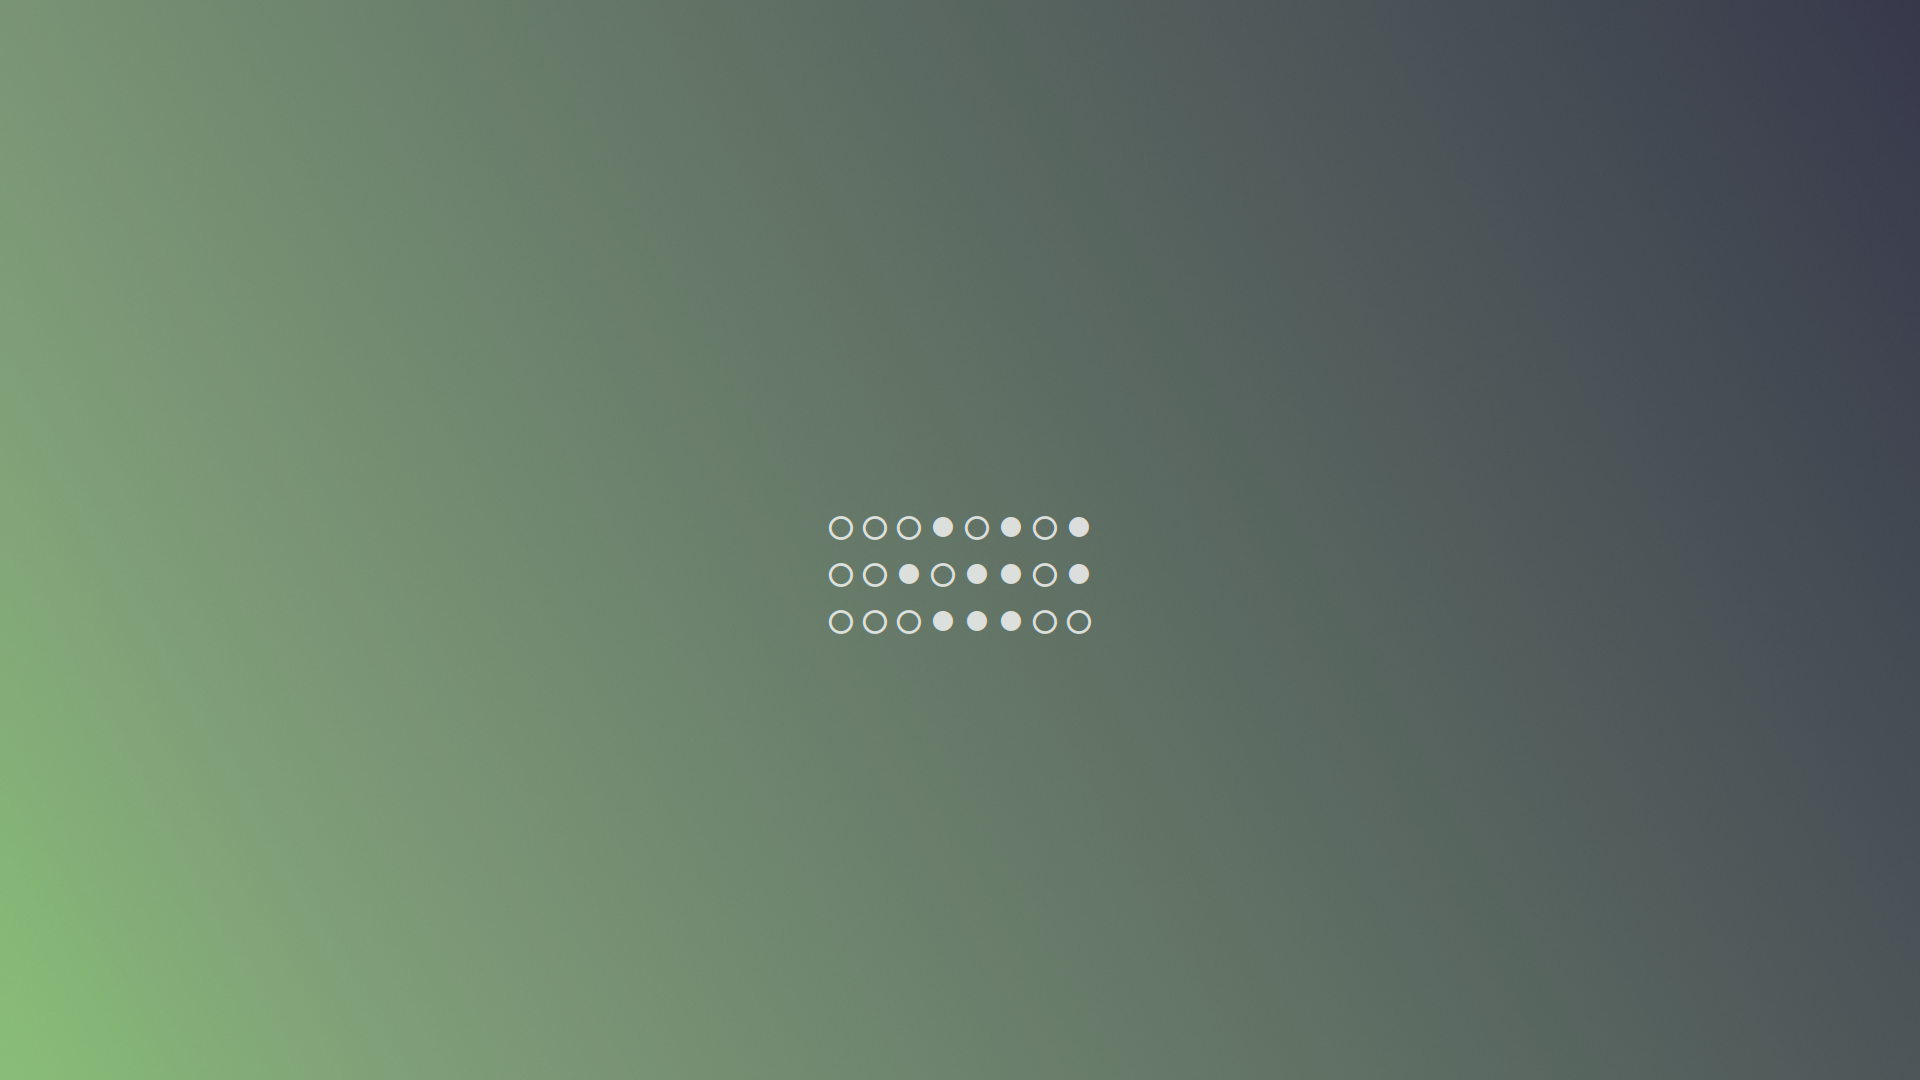
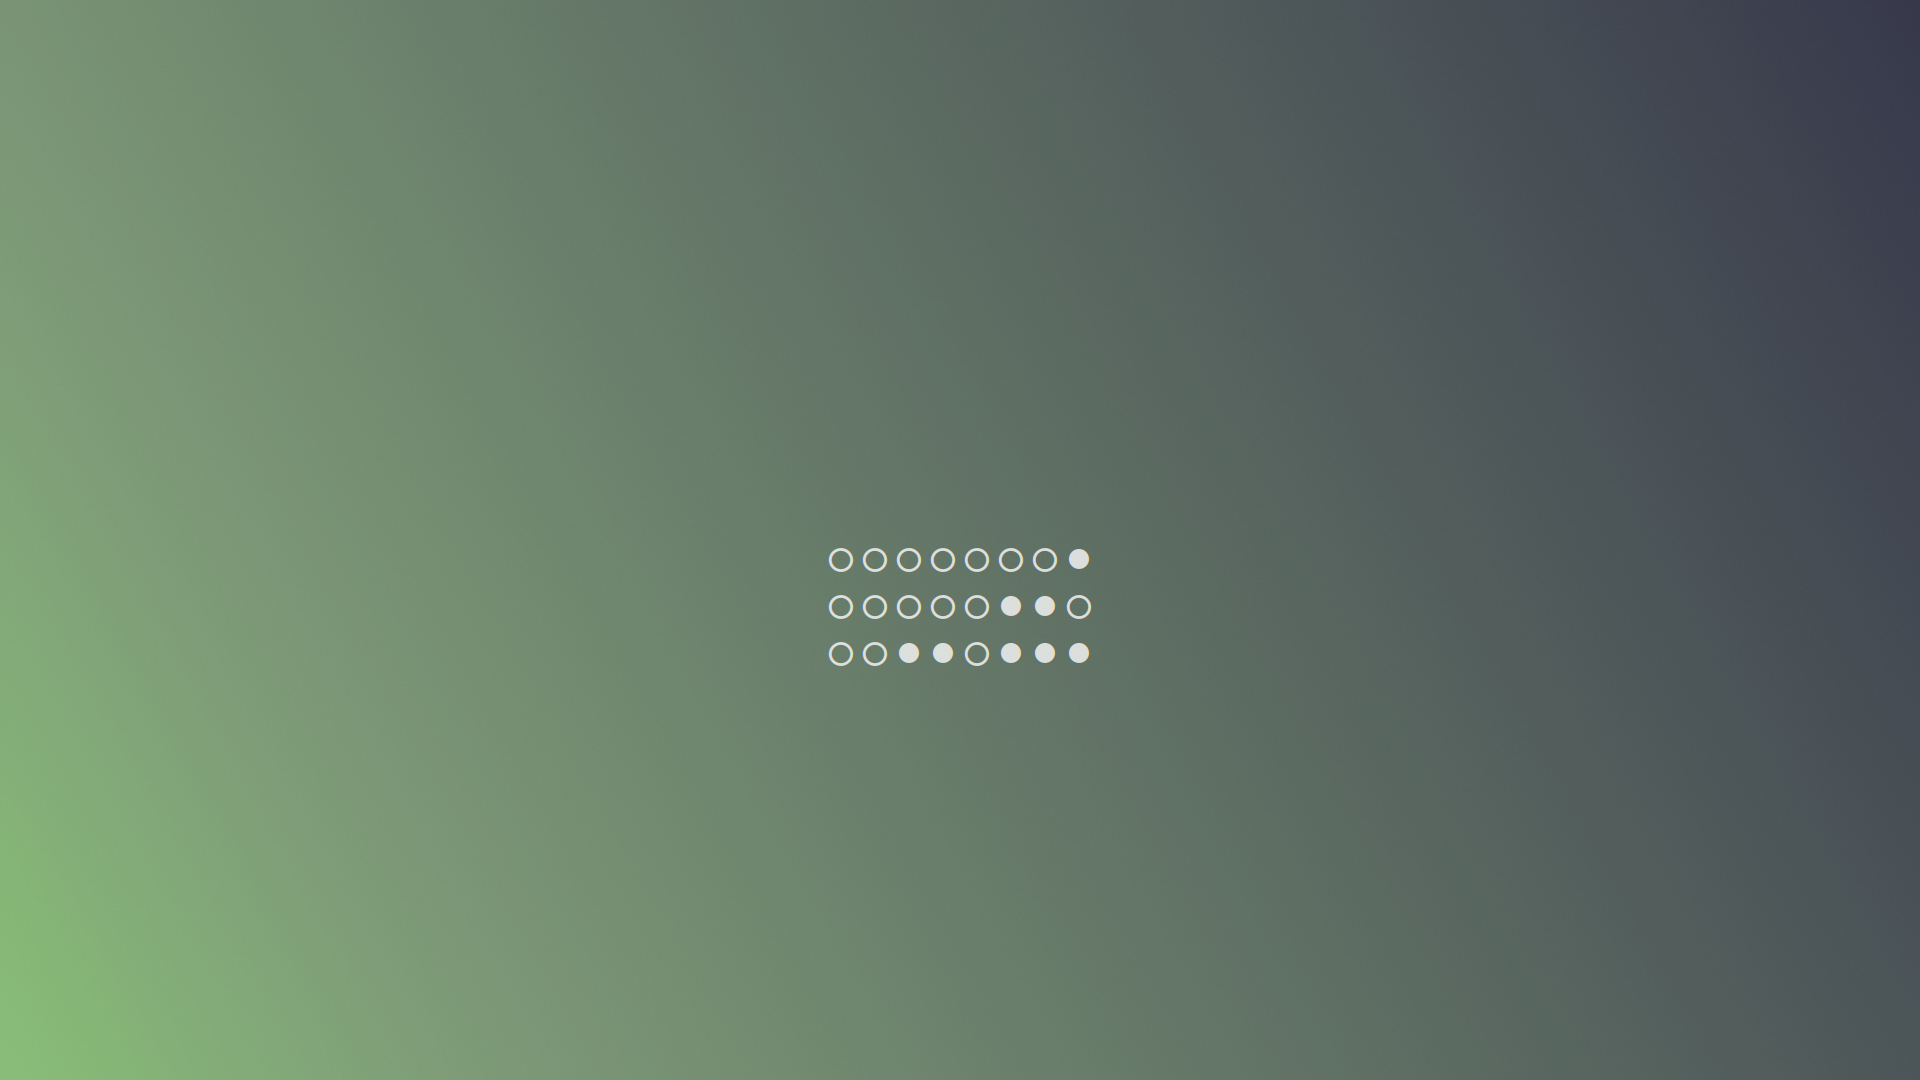
Update the screenshots

Changed region(s): [[0.4375, 0.4583, 0.5625, 0.6111]]

diff --git a/README.md b/README.md
@@ -7,13 +7,16 @@ My dotfiles include configuration for these programs:
 - nvim
 - tmux
 - wezterm
+- waybar
+- moxide
+- zsh
 
 ## Abandoned configs
 
 Configs for these programs are also included even though I don't use them (anymore):
 
-- waybar
 - kitty
+- bash
 
 ## Screenshots
 
@@ -24,11 +27,12 @@ It is possible to quickly switch between a dark mode (Catppuccin-Mocha) and a li
 The lock screen has a minimal gradient and shows the time in binary.
 
 ![Neovim lsp](./assets/screenshots/cmp.png)
-NeoVim has an awesome LSP configuration. Optimized on Rust and Typescript.  
-The completion menu is really pretty
+NeoVim has an awesome LSP configuration. The completion menu is really pretty.
 
 ![Status bar](./assets/screenshots/muxbar.png)
-The status bar in tmux uses muxbar, it's very efficient, colorful and useful
+The tmux status bar uses muxbar. As a session manager moxide is used.
+
+![Overview](./assets/screenshots/overview.png)
 
 ## Keybindings
 
